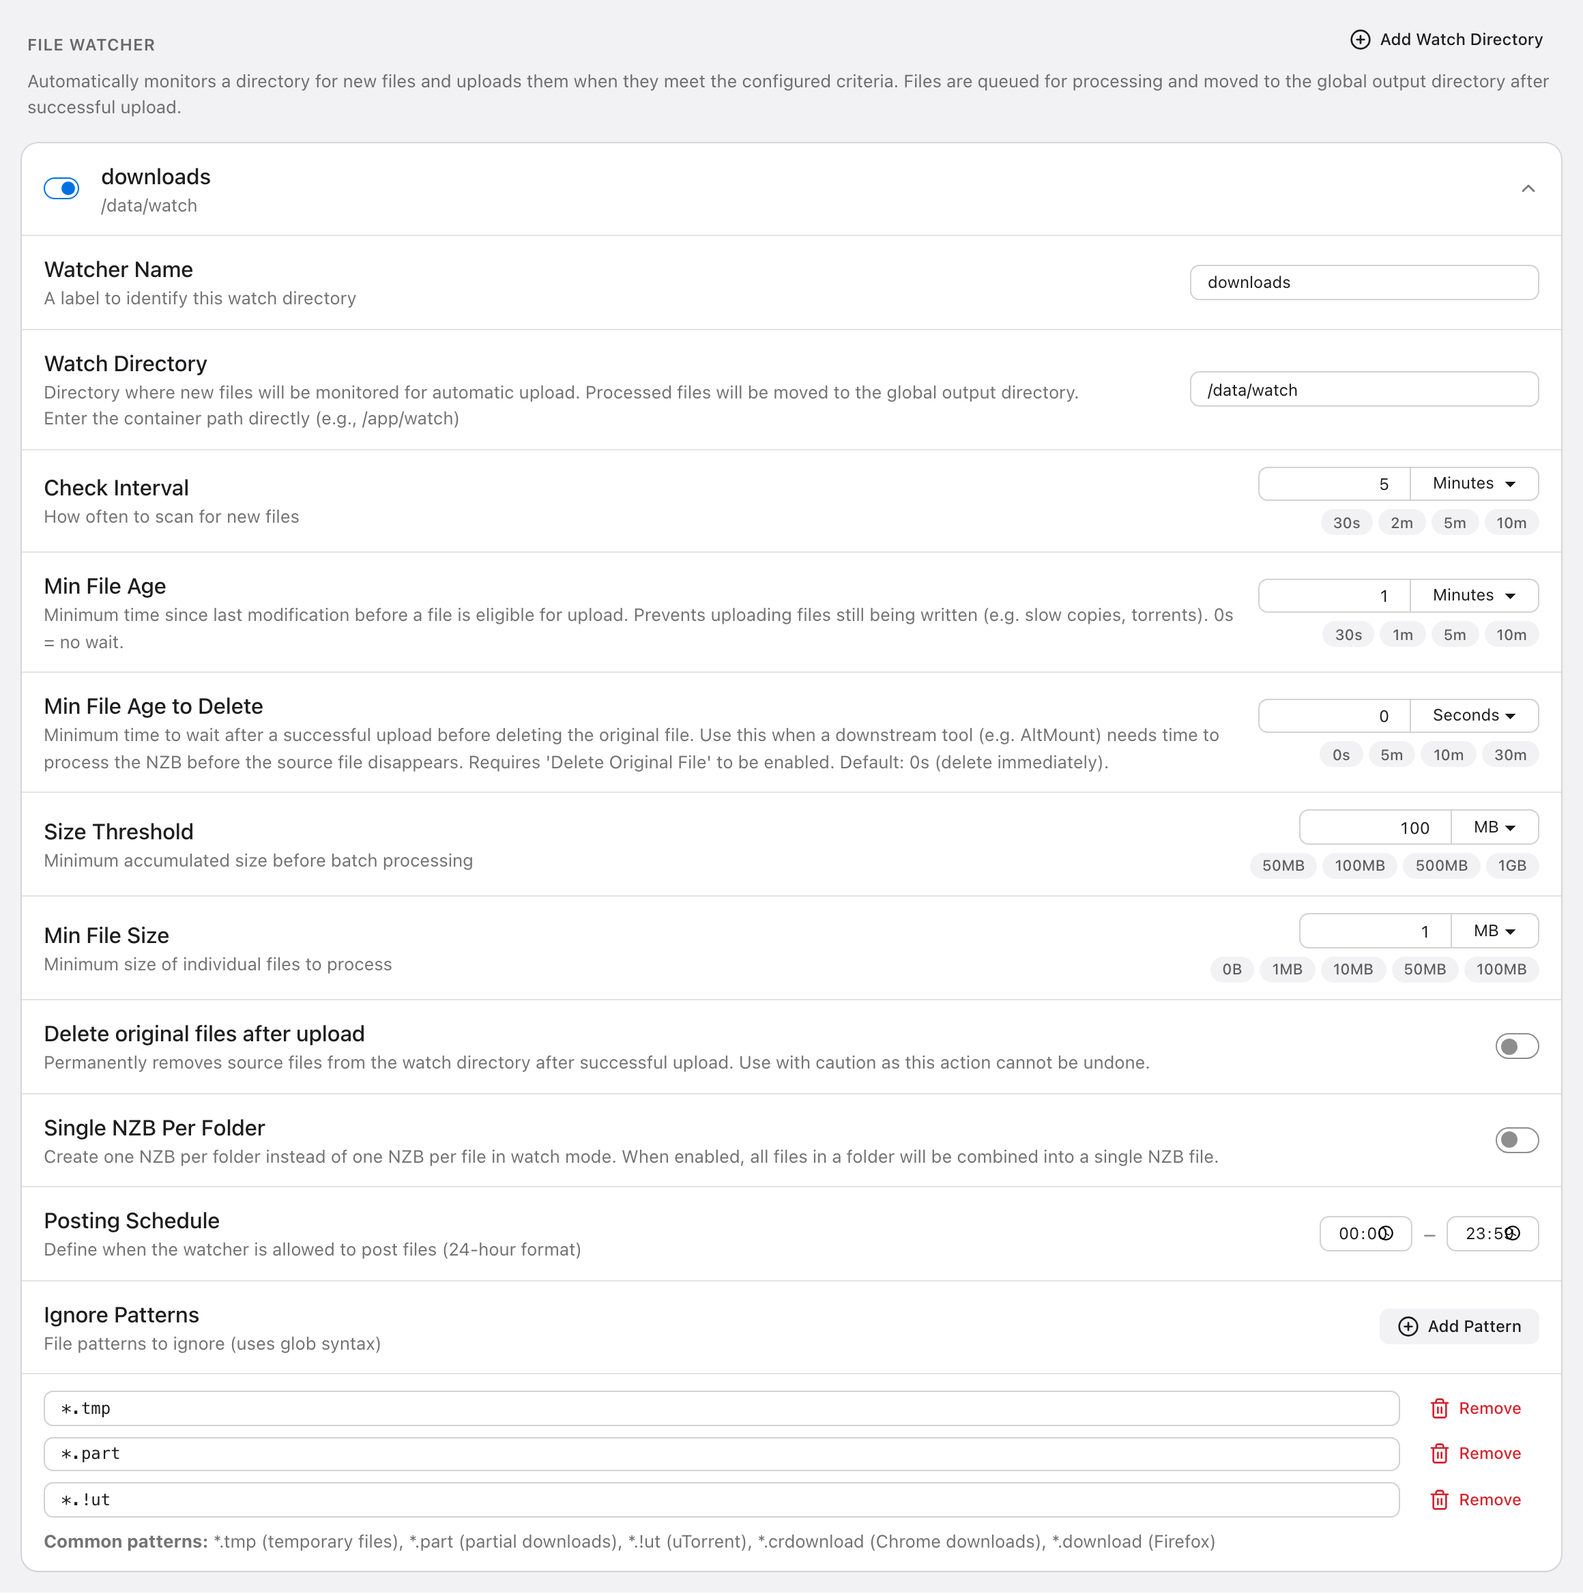
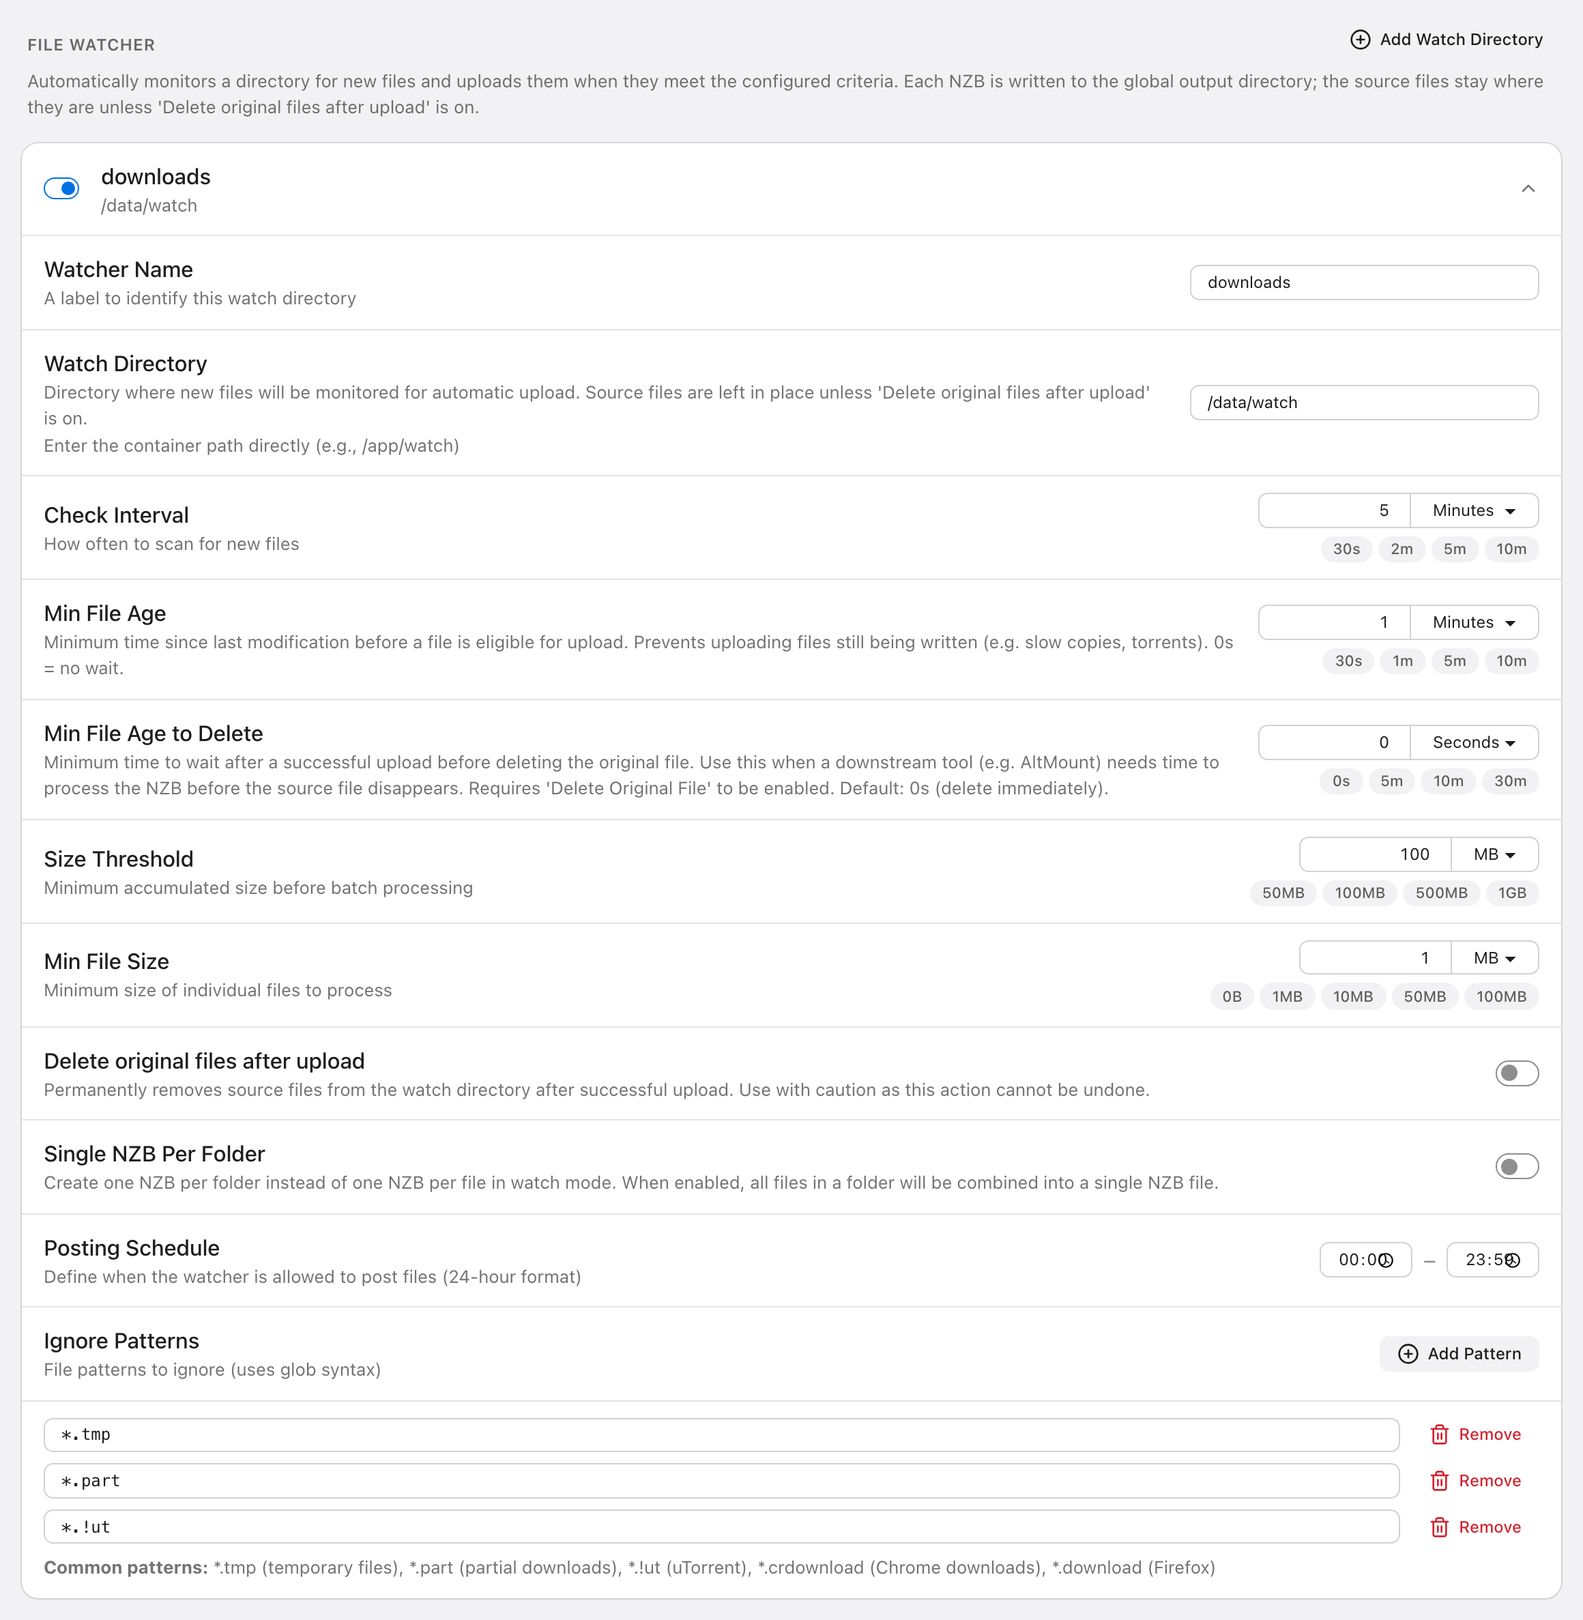
fix: watcher defaults, config rewrite on migration, and stale settings UI (#309)
* fix(config): give hand-written watchers their defaults and stop rewriting migrated configs

- Keys left out of a watchers entry now take default_watcher's values (5m interval, 100 MB threshold, 1 MB minimum, ignore patterns, all-day schedule) instead of zero. Explicit 0, 0s and [] are kept. The legacy watcher key keeps zero defaults.
- Migrating an unversioned or v1 config now writes back only version, server roles and the removed check_only, instead of the whole struct with every omitted key as zero or null.
- Document that connection_pool is accepted but unused.

* fix(settings): drop the no-op Connection Pool section and correct the watcher text

- min_connections and health_check_interval are not read by the Rust backend; the section and its strings are removed (the keys still load).
- The watcher text said processed files are moved to the output directory. Only the NZB goes there; source files stay unless deletion is on.

* fix(settings): show the backend's value for an empty watcher duration

DurationInput showed 5 seconds for an empty value and wrote 5s back on mount, so opening Settings could change an empty check interval (60 s to the backend) to 5 s. It now takes a fallback, and the watcher fields pass the values the backend uses.

* docs: watcher defaults now apply to hand-written entries; no connection pool settings

diff --git a/frontend/src/lib/components/inputs/DurationInput.svelte b/frontend/src/lib/components/inputs/DurationInput.svelte
@@ -3,6 +3,7 @@ import FieldRow from "./FieldRow.svelte";
 import PresetChips from "./PresetChips.svelte";
 // Imports
 import { t } from "$lib/i18n";
+import { parseDurationInput } from "$lib/duration-input";
 
 // Types
 interface ComponentProps {
@@ -10,6 +11,8 @@ interface ComponentProps {
 	label?: string;
 	description?: string;
 	placeholder?: string;
+	/** Shown (and saved) when the value is empty: the backend's value for an empty duration. */
+	fallback?: string;
 	presets?: Array<{ label: string; value: number; unit: string }>;
 	minValue?: number;
 	maxValue?: number;
@@ -23,6 +26,7 @@ let {
 	label = "",
 	description = "",
 	placeholder = "5",
+	fallback = "5s",
 	presets = [],
 	minValue = 1,
 	maxValue = 3600,
@@ -32,14 +36,7 @@ let {
 
 // State - local state for form inputs (following best practices)
 function parseValue(val: string | undefined): { number: number; unit: string } {
-	if (!val || typeof val !== "string" || val.trim() === "") {
-		return { number: 5, unit: "s" };
-	}
-	// Match patterns like "1m0s" or "1h30m" and extract the first meaningful element
-	const match = val.match(/^(\d+)([smh])/);
-	return match
-		? { number: Number.parseInt(match[1]), unit: match[2] }
-		: { number: 5, unit: "s" };
+	return parseDurationInput(val, fallback);
 }
 
 // Initialize with current value

diff --git a/frontend/src/lib/components/settings/WatcherSection.svelte b/frontend/src/lib/components/settings/WatcherSection.svelte
@@ -260,6 +260,7 @@ function getWatcherDisplayName(w: configType.WatcherConfig, index: number): stri
 
 					<DurationInput
 						bind:value={watcher.check_interval}
+						fallback="1m"
 						label={$t('settings.watcher.check_interval')}
 						description={$t('settings.watcher.check_interval_description')}
 						presets={checkIntervalPresets}
@@ -267,6 +268,7 @@ function getWatcherDisplayName(w: configType.WatcherConfig, index: number): stri
 					/>
 					<DurationInput
 						bind:value={watcher.min_file_age}
+						fallback="1m"
 						label={$t('settings.watcher.min_file_age')}
 						description={$t('settings.watcher.min_file_age_description')}
 						presets={minFileAgePresets}
@@ -274,6 +276,7 @@ function getWatcherDisplayName(w: configType.WatcherConfig, index: number): stri
 					/>
 					<DurationInput
 						bind:value={watcher.min_file_age_to_delete}
+						fallback="0s"
 						label={$t('settings.watcher.min_file_age_to_delete')}
 						description={$t('settings.watcher.min_file_age_to_delete_description')}
 						presets={minFileAgeToDeletePresets}

diff --git a/frontend/src/lib/duration-input.test.ts b/frontend/src/lib/duration-input.test.ts
@@ -1,0 +1,24 @@
+import { describe, expect, test } from "bun:test";
+import { parseDurationInput } from "./duration-input";
+
+describe("parseDurationInput", () => {
+	test("reads the first unit of a Go-style duration", () => {
+		expect(parseDurationInput("5m0s")).toEqual({ number: 5, unit: "m" });
+		expect(parseDurationInput("30s")).toEqual({ number: 30, unit: "s" });
+		expect(parseDurationInput("0s")).toEqual({ number: 0, unit: "s" });
+	});
+
+	test("an empty value shows the given fallback, not a hard-coded 5 seconds", () => {
+		// an empty watcher check interval means 60 s to the backend
+		expect(parseDurationInput("", "1m")).toEqual({ number: 1, unit: "m" });
+		expect(parseDurationInput(undefined, "0s")).toEqual({ number: 0, unit: "s" });
+	});
+
+	test("without a fallback an empty value keeps the old 5 second default", () => {
+		expect(parseDurationInput("")).toEqual({ number: 5, unit: "s" });
+	});
+
+	test("an unparsable value also uses the fallback", () => {
+		expect(parseDurationInput("soon", "1m")).toEqual({ number: 1, unit: "m" });
+	});
+});

diff --git a/frontend/src/routes/settings/+page.svelte b/frontend/src/routes/settings/+page.svelte
@@ -2,7 +2,6 @@
 import { goto } from "$app/navigation";
 import apiClient from "$lib/api/client";
 import ApiSection from "$lib/components/settings/ApiSection.svelte";
-import ConnectionPoolSection from "$lib/components/settings/ConnectionPoolSection.svelte";
 import FileNamingSection from "$lib/components/settings/FileNamingSection.svelte";
 import GeneralSection from "$lib/components/settings/GeneralSection.svelte";
 import DuplicateLookupSection from "$lib/components/settings/DuplicateLookupSection.svelte";
@@ -361,7 +360,6 @@ onDestroy(() => {
             {#if $advancedMode}
               <div transition:collapse class="space-y-6">
                 <QueueSection bind:config={localConfig} />
-                <ConnectionPoolSection bind:config={localConfig} />
               </div>
             {/if}
           </div>

diff --git a/frontend/src/lib/duration-input.ts b/frontend/src/lib/duration-input.ts
@@ -1,0 +1,20 @@
+export interface DurationParts {
+	number: number;
+	unit: string;
+}
+
+const FIRST_UNIT = /^(\d+)([smh])/;
+
+/**
+ * Splits a duration such as "5m0s" into the number and unit shown by DurationInput (its first
+ * unit). An empty or unparsable value shows `fallback`, which should be the value the backend uses
+ * for an empty duration, so the form does not display, and then save, something else.
+ */
+export function parseDurationInput(value: string | undefined, fallback = "5s"): DurationParts {
+	const match = typeof value === "string" ? value.trim().match(FIRST_UNIT) : null;
+	if (match) {
+		return { number: Number.parseInt(match[1]), unit: match[2] };
+	}
+	const fb = fallback.match(FIRST_UNIT);
+	return fb ? { number: Number.parseInt(fb[1]), unit: fb[2] } : { number: 5, unit: "s" };
+}

diff --git a/rust/core/src/config/mod.rs b/rust/core/src/config/mod.rs
@@ -98,6 +98,8 @@ impl<'de> Deserialize<'de> for Duration {
 
 #[derive(Debug, Clone, PartialEq, Eq, Default, Serialize, Deserialize)]
 #[serde(default)]
+/// Accepted so older configs still load, but unused: connections open on demand and close after the
+/// server's `max_connection_idle_time_in_seconds`.
 pub struct ConnectionPoolConfig {
     pub min_connections: i64,
     pub health_check_interval: Duration,
@@ -345,6 +347,7 @@ pub struct ConfigData {
     pub par2: Par2Config,
     /// Deprecated: use `watchers`.
     pub watcher: WatcherConfig,
+    #[serde(deserialize_with = "watchers_with_defaults")]
     pub watchers: Option<Vec<WatcherConfig>>,
     pub nzb_compression: NzbCompressionConfig,
     pub database: DatabaseConfig,
@@ -459,6 +462,31 @@ impl ConfigData {
 
 fn some_bool(v: bool) -> Option<bool> {
     Some(v)
+}
+
+/// Each `watchers` entry starts from a new watcher's values (`default_watcher`), so keys left out of
+/// a hand-written entry get those defaults instead of zero. Keys that are present, including an
+/// explicit `0`, `0s` or `[]`, win. The legacy `watcher` key keeps zero defaults: zero means unset.
+fn watchers_with_defaults<'de, D>(d: D) -> Result<Option<Vec<WatcherConfig>>, D::Error>
+where
+    D: serde::Deserializer<'de>,
+{
+    use serde::de::Error;
+    let Some(entries) = Option::<Vec<Value>>::deserialize(d)? else {
+        return Ok(None);
+    };
+    let base = serde_json::to_value(default_watcher()).map_err(D::Error::custom)?;
+    entries
+        .into_iter()
+        .map(|entry| {
+            let mut merged = base.clone();
+            if let (Value::Object(m), Value::Object(e)) = (&mut merged, entry) {
+                m.extend(e);
+            }
+            serde_json::from_value(merged).map_err(D::Error::custom)
+        })
+        .collect::<Result<Vec<_>, _>>()
+        .map(Some)
 }
 
 fn default_watcher() -> WatcherConfig {
@@ -952,13 +980,37 @@ pub fn load(path: &Path) -> Result<ConfigData, ConfigError> {
     }
     if cfg.migrate_v1() {
         // persist so later loads do not migrate again; a failed save is only a warning in Go
-        if let Err(e) = save_config(&cfg, path) {
+        if let Err(e) = save_migrated_v1(&data, &cfg, path) {
             crate::logx::warn(&format!("Failed to save migrated config to disk: {e}"), &[]);
         }
     }
     cfg.apply_load_defaults();
     cfg.validate().map_err(ConfigError::Invalid)?;
     Ok(cfg)
+}
+
+/// Writes the v1 migration back into the user's own YAML: sets `version` and each server's `role`
+/// and drops `check_only`. Unlike Go, it does not write every omitted key back as a zero or null,
+/// which would hide the defaults those keys get on every load.
+fn save_migrated_v1(original: &str, cfg: &ConfigData, path: &Path) -> Result<(), ConfigError> {
+    use serde_yaml_ng::Value as Y;
+    let mut doc: Y =
+        serde_yaml_ng::from_str(original).map_err(|e| ConfigError::Format(e.to_string()))?;
+    let Y::Mapping(top) = &mut doc else {
+        return save_config(cfg, path);
+    };
+    top.insert(Y::from("version"), Y::from(cfg.version));
+    if let Some(Y::Sequence(servers)) = top.get_mut("servers") {
+        let migrated = cfg.servers.as_deref().unwrap_or(&[]);
+        for (entry, server) in servers.iter_mut().zip(migrated) {
+            if let Y::Mapping(m) = entry {
+                m.remove("check_only");
+                m.insert(Y::from("role"), Y::from(server.role.as_str()));
+            }
+        }
+    }
+    let text = serde_yaml_ng::to_string(&doc).map_err(|e| ConfigError::Format(e.to_string()))?;
+    std::fs::write(path, text).map_err(ConfigError::Write)
 }
 
 /// Loads from a YAML string (same pipeline as [`load`], minus the file and the v1 re-save).
@@ -1056,6 +1108,86 @@ mod tests {
         );
     }
 
+    const MINIMAL: &str = "servers:\n  - host: news.example.com\n    port: 563\n    max_connections: 10\nposting:\n  groups:\n    - name: alt.binaries.test\n      enabled: true\n";
+
+    /// Postie departs from Go here on purpose: keys left out of a hand-written watcher entry get the
+    /// same defaults as a new watcher, instead of zero values (no threshold, no ignore patterns).
+    #[test]
+    fn a_hand_written_watcher_entry_gets_defaults_for_omitted_keys() {
+        let yaml =
+            format!("{MINIMAL}watchers:\n  - name: tv\n    watch_directory: /downloads/tv\n");
+        let w = load_str(&yaml).unwrap().watchers.unwrap().remove(0);
+        let d = default_watcher();
+        assert_eq!(
+            (w.name.as_str(), w.watch_directory.as_str()),
+            ("tv", "/downloads/tv")
+        );
+        assert_eq!(w.size_threshold, d.size_threshold);
+        assert_eq!(w.min_file_size, d.min_file_size);
+        assert_eq!(w.check_interval.nanos(), d.check_interval.nanos());
+        assert_eq!(w.min_file_age.nanos(), d.min_file_age.nanos());
+        assert_eq!(w.ignore_patterns, d.ignore_patterns);
+        assert_eq!(w.schedule, d.schedule);
+    }
+
+    #[test]
+    fn explicit_zero_and_empty_watcher_values_are_kept() {
+        let yaml = format!(
+            "{MINIMAL}watchers:\n  - watch_directory: /w\n    size_threshold: 0\n    min_file_size: 0\n    ignore_patterns: []\n    min_file_age: 0s\n"
+        );
+        let w = load_str(&yaml).unwrap().watchers.unwrap().remove(0);
+        assert_eq!((w.size_threshold, w.min_file_size), (0, 0));
+        assert_eq!(w.ignore_patterns, Some(vec![]));
+        assert_eq!(w.min_file_age.nanos(), 0);
+    }
+
+    /// Migrating an unversioned file must not write every omitted key back as a zero or null.
+    #[test]
+    fn migrating_an_old_config_only_adds_the_version_and_server_roles() {
+        let dir =
+            std::env::temp_dir().join(format!("postie-config-migrate-{}", std::process::id()));
+        std::fs::create_dir_all(&dir).unwrap();
+        let path = dir.join("config.yaml");
+        std::fs::write(
+            &path,
+            "servers:\n  - host: news.example.com\n    port: 563\n    max_connections: 10\n  - host: check.example.com\n    port: 563\n    max_connections: 2\n    check_only: true\nposting:\n  groups:\n    - name: alt.binaries.test\n      enabled: true\n",
+        )
+        .unwrap();
+        let cfg = load(&path).unwrap();
+        assert_eq!(cfg.posting.max_retries, 3, "defaults still apply in memory");
+        let saved: serde_yaml_ng::Value =
+            serde_yaml_ng::from_str(&std::fs::read_to_string(&path).unwrap()).unwrap();
+        let top: Vec<&str> = saved
+            .as_mapping()
+            .unwrap()
+            .keys()
+            .filter_map(|k| k.as_str())
+            .collect();
+        assert_eq!(top, ["servers", "posting", "version"]);
+        assert_eq!(
+            saved["version"],
+            serde_yaml_ng::Value::from(CURRENT_CONFIG_VERSION)
+        );
+        assert_eq!(
+            saved["servers"][0]["role"],
+            serde_yaml_ng::Value::from("upload")
+        );
+        assert_eq!(
+            saved["servers"][1]["role"],
+            serde_yaml_ng::Value::from("verify")
+        );
+        assert!(saved["servers"][1].get("check_only").is_none());
+        assert!(saved["servers"][0].get("inflight").is_none());
+        assert!(saved["posting"].get("max_retries").is_none());
+        // loading the migrated file again gives the same configuration
+        assert_eq!(load(&path).unwrap(), cfg);
+        let _ = std::fs::remove_dir_all(&dir);
+    }
+
+    /// (oracle case, config path) pairs where Rust intentionally differs from the recorded Go output.
+    /// `watchers`: omitted keys of a watcher entry get `default_watcher` values instead of zero.
+    const GO_DEPARTURES: &[(&str, &str)] = &[("watchers_list", ".watchers")];
+
     /// Every case recorded from Go's `config.Load` (YAML in, JSON config or error text out).
     #[test]
     fn load_matches_go_oracle() {
@@ -1071,7 +1203,18 @@ mod tests {
                 (Ok(cfg), true) => {
                     let got = serde_json::to_value(&cfg).unwrap();
                     if got != c.config {
-                        let diff: Vec<String> = diff_values("", &c.config, &got);
+                        // deliberate departures from Go, each covered by its own test above
+                        let diff: Vec<String> = diff_values("", &c.config, &got)
+                            .into_iter()
+                            .filter(|d| {
+                                !GO_DEPARTURES
+                                    .iter()
+                                    .any(|(case, path)| case == name && d.starts_with(path))
+                            })
+                            .collect();
+                        if diff.is_empty() {
+                            continue;
+                        }
                         bad.push(format!("{name}: config differs: {}", diff.join("; ")));
                     }
                 }

diff --git a/docs/docs/watcher.md b/docs/docs/watcher.md
@@ -63,20 +63,21 @@ The single `watcher:` key from v1 configs is still read and migrated to `watcher
 
 ## Defaults {#defaults}
 
-A watcher added in the UI, or the one in a brand-new config, starts with the defaults in the left column.
-A watcher entry written by hand in YAML does **not** get those defaults for keys it leaves out:
+A new watcher, whether added in the UI or written by hand in YAML, starts with these values. Keys you leave
+out of a `watchers` entry get them; keys you write, including `0`, `0s` or `[]`, are kept.
 
-| Key | New watcher (UI) | Key left out of a YAML entry |
-|-----|------------------|------------------------------|
-| `check_interval` | `5m` | `60s` |
-| `min_file_age` | `60s` | `60s` |
-| `size_threshold` | 100 MB | `0` (no threshold) |
-| `min_file_size` | 1 MB | `0` (no minimum) |
-| `ignore_patterns` | `*.tmp`, `*.part`, `*.!ut` | none |
-| `schedule` | `00:00`–`23:59` | always |
-| `min_file_age_to_delete` | `0s` | `0s` |
+| Key | Default |
+|-----|---------|
+| `check_interval` | `5m` |
+| `min_file_age` | `60s` |
+| `size_threshold` | 100 MB |
+| `min_file_size` | 1 MB |
+| `ignore_patterns` | `*.tmp`, `*.part`, `*.!ut` |
+| `schedule` | `00:00`–`23:59` |
+| `min_file_age_to_delete` | `0s` |
 
-Write every key you care about when you edit a watcher by hand.
+An explicitly empty duration (`check_interval: ""`) means 60 seconds for `check_interval` and `min_file_age`,
+and no wait for `min_file_age_to_delete`.
 
 ## What happens to a file
 

diff --git a/docs/docs/configuration.md b/docs/docs/configuration.md
@@ -27,9 +27,8 @@ runs, restart it to pick up the changes.
 ### Defaults
 
 Keys you leave out of the file get their default when the config loads, so a config only needs the keys
-you want to change. **Watchers are the exception:** inside a `watchers` entry, an omitted key means zero
-or empty (no size threshold, no ignore patterns), not the default listed here. See
-[File Watcher](./watcher.md#defaults).
+you want to change. That includes each `watchers` entry (see [File Watcher](./watcher.md#defaults)).
+Postie never writes those defaults back into your file, so a hand-written config stays as you wrote it.
 
 Durations are written like `30s`, `5m` or `1h`. Sizes are in bytes.
 
@@ -212,16 +211,9 @@ until the pending jobs add up to at least that many bytes.
 
 ### Connection pool
 
-![Connection pool configuration](/img/settings/connection-pool.png)
-
-```yaml
-connection_pool:
-  min_connections: 0
-  health_check_interval: 1m
-```
-
-These keys are accepted for compatibility but have **no effect in 0.1.0**: connections open on demand and
-close after `max_connection_idle_time_in_seconds`.
+Connections open on demand and close after the server's `max_connection_idle_time_in_seconds`, so there are
+no pool settings. Older configs may still contain a `connection_pool` section with `min_connections` and
+`health_check_interval`; it is accepted and ignored.
 
 ## File Processing
 
